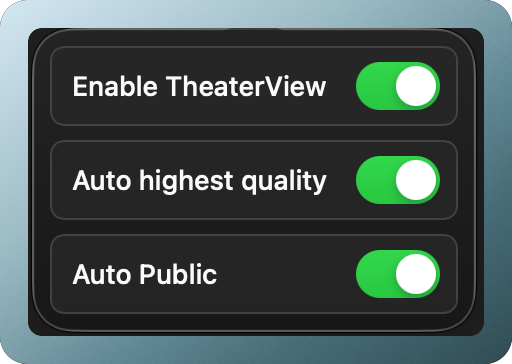
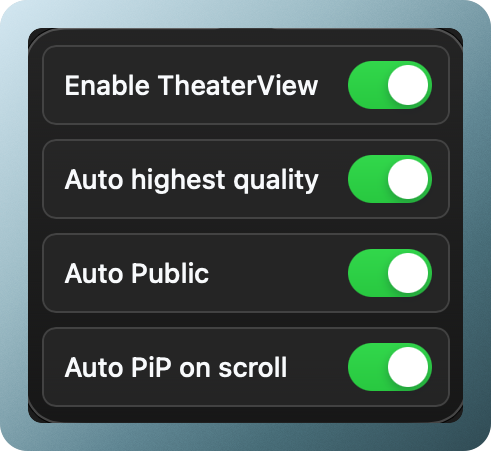
Refresh TheaterView screenshots and describe Auto PiP on scroll

diff --git a/src/components/TheaterViewPage.tsx b/src/components/TheaterViewPage.tsx
@@ -32,9 +32,9 @@ export default function TheaterViewPage() {
         <p>Every time I sat down to watch YouTube, I found myself making the same adjustments again. They were small clicks, but repeating them got annoying. I built this personal extension so my preferred viewing setup would be ready without that routine.</p>
         <p>TheaterView handles a few familiar adjustments when opening YouTube. It enables theater mode on watch pages, can select the highest non-Premium quality, and selects the Public filter on a channel’s Videos tab when that option is available.</p>
       </ProjectSection>
-      <ProjectSection title="Three switches, my defaults">
+      <ProjectSection title="My TheaterView settings">
         <ProjectFigure image={project.image} />
-        <p>Enable TheaterView controls the extension as a whole. Auto highest quality and Auto Public can be turned off independently. All three default to on, and settings are saved locally.</p>
+        <p>Enable TheaterView controls the extension as a whole. I also have Auto highest quality, Auto Public, and Auto PiP on scroll switched on. The last option puts the video in Picture in Picture when I scroll past the player.</p>
       </ProjectSection>
       <ProjectSection title="What changes">
         <ProjectNotes items={[

diff --git a/tests/browser/theaterview.spec.ts b/tests/browser/theaterview.spec.ts
@@ -16,7 +16,7 @@ test("TheaterView replaces the showcase and retains the legacy URL", async ({ pa
   for (const theme of ["Light", "Dark"] as const) {
     await page.setViewportSize({ width: 1440, height: 900 });
     await page.getByRole("group", { name: "Color theme" }).getByRole("button", { name: theme, exact: true }).click();
-    const img = page.getByRole("img", { name: "TheaterView settings with Enable TheaterView, Auto highest quality, and Auto Public switched on", exact: true });
+    const img = page.getByRole("img", { name: "TheaterView settings with Enable TheaterView, Auto highest quality, Auto Public, and Auto PiP on scroll switched on", exact: true });
     await expect(img).toHaveAttribute("src", `/projects/theaterview/settings${theme === "Dark" ? "-dark" : ""}.png`);
     await img.scrollIntoViewIfNeeded();
     await img.evaluate((el: HTMLImageElement) => el.decode());

diff --git a/src/data/projects.ts b/src/data/projects.ts
@@ -97,10 +97,10 @@ export const PROJECTS: Project[] = [
     tags: ["JavaScript", "Safari", "Web Extension"],
     image: {
       src: "/projects/theaterview/settings.png",
-      dark: { src: "/projects/theaterview/settings-dark.png", width: 512, height: 364 },
-      alt: "TheaterView settings with Enable TheaterView, Auto highest quality, and Auto Public switched on",
-      width: 512,
-      height: 368,
+      dark: { src: "/projects/theaterview/settings-dark.png", width: 491, height: 451 },
+      alt: "TheaterView settings with Enable TheaterView, Auto highest quality, Auto Public, and Auto PiP on scroll switched on",
+      width: 501,
+      height: 456,
     },
   },
   {
